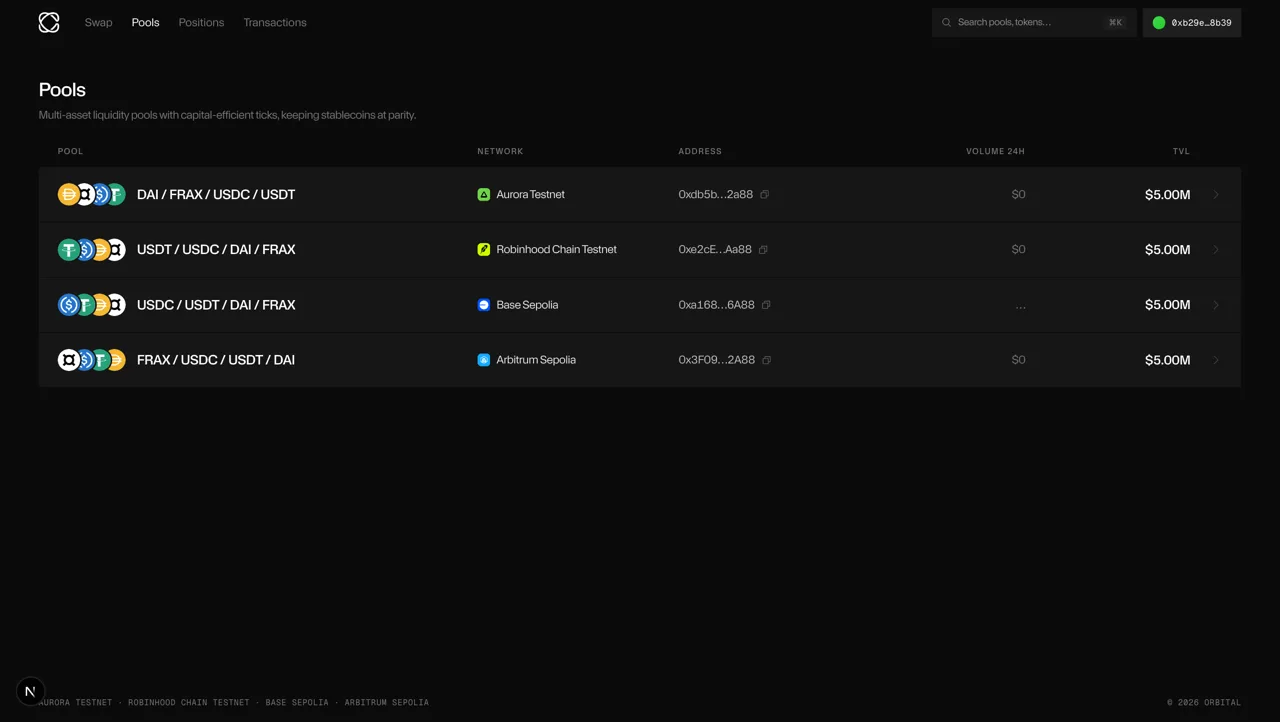
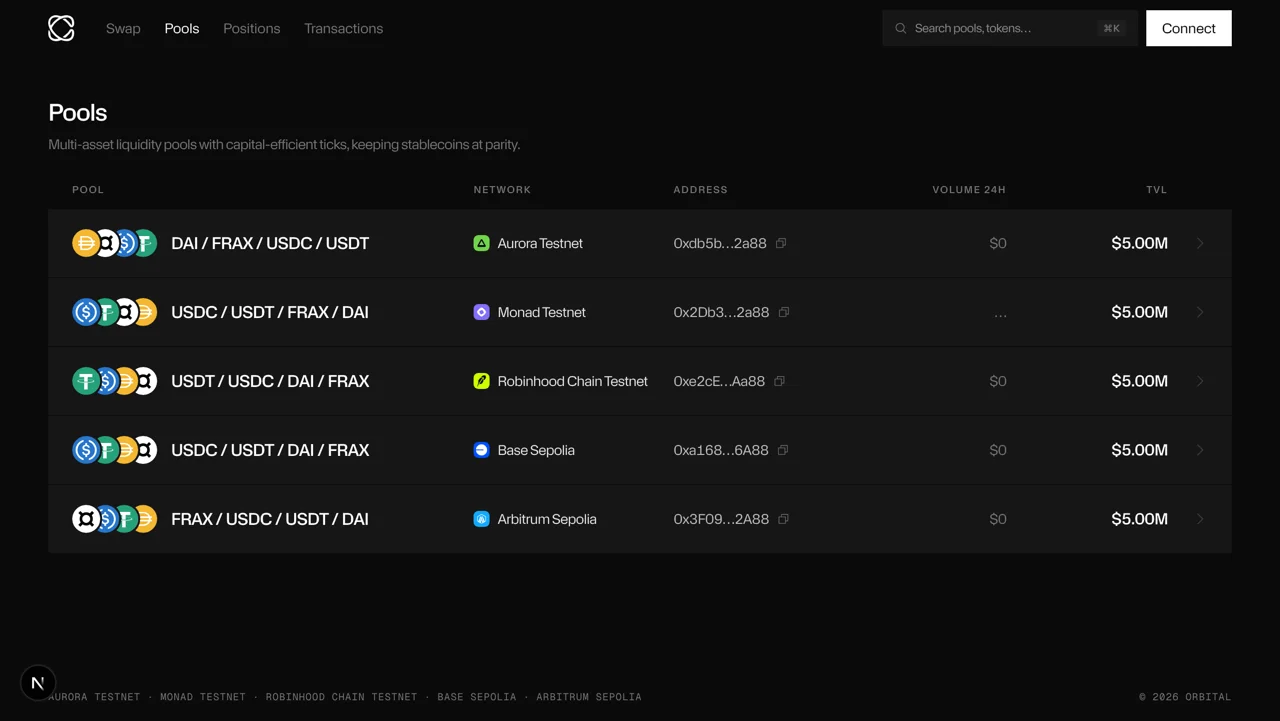
Fix up the frontend chain registry and home page
Wire an already-deployed pool into the frontend, alongside the existing
ones.

Fix a collision it exposed. Token display metadata was keyed by address
alone, built by looping every deployment, so a later one silently
overwrote an earlier one wherever two shared an address — which happens,
because the mocks were deployed from one account whose nonces ran in
step, so CREATE handed out the same addresses more than once. A pool
then rendered under the wrong symbols, with one missing and another
doubled. The key is now deployment and address, behind a helper so the
first cannot be forgotten at a call site.

Generate the home page and footer lists from the registry rather than
typing them out, since the footer had already drifted to name something
not deployed and to omit the primary one.

diff --git a/frontend/lib/crosschain.ts b/frontend/lib/crosschain.ts
@@ -52,6 +52,7 @@ export const BASE_SEPOLIA_ID = 84532;
 
 // Aurora: the EVM on NEAR. Not in viem's chain list.
 export const AURORA_TESTNET_ID = 1313161555;
+export const MONAD_TESTNET_ID = 10143;
 
 export const DEPLOYMENTS: Record<number, CrossChainDeployment> = {
   // Generated from orbitalHook/deployments.json - keep the two in step.
@@ -128,6 +129,25 @@ export const DEPLOYMENTS: Record<number, CrossChainDeployment> = {
       USDT:  { symbol: "USDT", address: "0xe574c92e61579b3b77f5491a0c02c57157c915c1", decimals: 6 , index: 3 },
     },
   },
+  [MONAD_TESTNET_ID]: {
+    chainId: MONAD_TESTNET_ID,
+    name: "Monad Testnet",
+    short: "Monad",
+    explorer: "https://testnet.monadscan.com",
+    orbitalHook: "0x2Db3289884D575A7b49374F28d738DBF2dc42a88",
+    poolManager: "0x553Fa9C4040AAb9366C4F9ffB6e31B1Ff415CAF7",
+    swapRouter: "0x43aDE6c9918DeBDE6783E6ed9B9A4745E507383a",
+    quoter: "0x2f7A2DC7d74645A31CABb5466219CCAB70913377",
+    deployBlock: 70679352n,
+    // No settler deployed here, so Monad quotes and trades its own book only.
+    crossChainNote: "Monad testnet has no Orbital settler, so it is same-chain only",
+    assets: {
+      USDC:  { symbol: "USDC", address: "0x0a29619e8580d90b14200a734faad4677e9d1645", decimals: 6 , index: 0 },
+      USDT:  { symbol: "USDT", address: "0x45dc287a307eccf7426cb2377ee2865457592fae", decimals: 6 , index: 1 },
+      FRAX:  { symbol: "FRAX", address: "0x871290c7a788395f1ce5f7cdd69917696e0c352a", decimals: 18, index: 2 },
+      DAI:   { symbol: "DAI", address: "0xc79a946a0a8661cde0cc02a34d387c5b4ccab0e4", decimals: 18, index: 3 },
+    },
+  },
 };
 
 /// The chain the single-chain pages (pools, positions, transactions) default to,
@@ -152,6 +172,7 @@ export const DEFAULT_SWAP_CHAIN_ID = AURORA_TESTNET_ID;
 /// Display order in the token dropdown, primary chain first.
 export const CHAIN_IDS = [
   AURORA_TESTNET_ID,
+  MONAD_TESTNET_ID,
   ROBINHOOD_TESTNET_ID,
   BASE_SEPOLIA_ID,
   ARBITRUM_SEPOLIA_ID,
@@ -382,9 +403,16 @@ export const explorerTx = (chainId: number, hash: string) =>
 export const explorerAddress = (chainId: number, addr: string) =>
   `${DEPLOYMENTS[chainId]?.explorer ?? ""}/address/${addr}`;
 
-/// Display metadata keyed by LOWERCASED token address, across every chain.
+/// Display metadata keyed by `chainId:LOWERCASED address`, across every chain.
 /// Built from the registry so a redeploy cannot leave stale symbols or the
 /// wrong decimals behind.
+///
+/// The chain id is part of the key because an address alone is NOT unique:
+/// the mock tokens were deployed by one account whose nonces ran in step on
+/// several chains, so CREATE handed out identical addresses. Monad's USDC and
+/// Robinhood's USDT are both 0x0a29619e…, and three such pairs exist. Keyed by
+/// address alone, whichever chain came last in `CHAIN_IDS` silently won, and
+/// Monad's pool rendered as "USDT / DAI / FRAX / FRAX".
 export const TOKEN_DISPLAY: Record<string, { symbol: string; name: string; color: string; decimals: number; chainId: number }> = (() => {
   const NAMES: Record<string, string> = {
     USDC: "USD Coin",
@@ -403,7 +431,7 @@ export const TOKEN_DISPLAY: Record<string, { symbol: string; name: string; color
     const dep = DEPLOYMENTS[chainId];
     for (const sym of ROUTABLE_SYMBOLS) {
       const a = dep.assets[sym];
-      out[a.address.toLowerCase()] = {
+      out[`${chainId}:${a.address.toLowerCase()}`] = {
         symbol: sym,
         name: NAMES[sym] ?? sym,
         color: COLORS[sym] ?? "#888",
@@ -414,6 +442,28 @@ export const TOKEN_DISPLAY: Record<string, { symbol: string; name: string; color
   }
   return out;
 })();
+
+/// "a, b, c and d" — an English list, for prose rather than a table.
+export function listAnd(items: readonly string[]): string {
+  if (items.length < 2) return items.join("");
+  return `${items.slice(0, -1).join(", ")} and ${items[items.length - 1]}`;
+}
+
+/// Every deployed chain, named for prose with the network tier stripped, so a
+/// sentence does not carry "Testnet" or "Sepolia" five times over. Anywhere
+/// this is used states the testnet caveat once, on its own.
+export const DEPLOYED_CHAINS = listAnd(
+  CHAIN_IDS.map((id) => DEPLOYMENTS[id].name.replace(/ (Testnet|Sepolia)$/, "")),
+);
+
+/// The same list with each chain's full name, for places that must be exact.
+export const DEPLOYED_CHAINS_FULL = listAnd(CHAIN_IDS.map((id) => DEPLOYMENTS[id].name));
+
+/// A token's display metadata on a given chain. Always prefer this to indexing
+/// `TOKEN_DISPLAY` directly, so the chain id cannot be forgotten.
+export function tokenDisplay(chainId: number, address: string) {
+  return TOKEN_DISPLAY[`${chainId}:${address.toLowerCase()}`];
+}
 
 // ─── Pools ───────────────────────────────────────────────────────────────────
 // Every page that lists, reads or scans pools goes through `ALL_POOLS`, so a

diff --git a/frontend/lib/wagmi.ts b/frontend/lib/wagmi.ts
@@ -38,19 +38,38 @@ export const robinhoodTestnet = defineChain({
   testnet: true,
 });
 
+// Monad testnet. Not in viem's chain list.
+//
+// Monad charges the full gas LIMIT rather than gas used, and `eth_estimateGas`
+// is unreliable here, so anything that signs against this chain should send an
+// explicit limit rather than trust an estimate.
+export const monadTestnet = defineChain({
+  id: 10143,
+  name: "Monad Testnet",
+  nativeCurrency: { name: "MON", symbol: "MON", decimals: 18 },
+  rpcUrls: { default: { http: ["https://testnet-rpc.monad.xyz"] } },
+  blockExplorers: {
+    default: { name: "MonadScan", url: "https://testnet.monadscan.com" },
+  },
+  testnet: true,
+});
+
 // Explorer links are per chain: use `explorerTx` / `explorerAddress` from
 // `lib/crosschain`, which read each deployment's own explorer.
 
-// Robinhood Chain testnet is the primary deployment; Arbitrum Sepolia, Base
-// Sepolia and Ethereum Sepolia carry the same hook. All are same-chain only.
+// Aurora is the primary deployment (see `PRIMARY_CHAIN_ID`); Monad, Robinhood
+// Chain, Base Sepolia and Arbitrum Sepolia carry the same hook. Aurora,
+// Arbitrum and Base are peered for cross-chain intents; Monad and Robinhood
+// have no settler, so they are same-chain only.
 export { arbitrumSepolia, baseSepolia };
 
 export function createWagmiConfig(): Config {
   return createConfig({
-    chains: [auroraTestnet, robinhoodTestnet, baseSepolia, arbitrumSepolia],
+    chains: [auroraTestnet, monadTestnet, robinhoodTestnet, baseSepolia, arbitrumSepolia],
     connectors: [injected(), coinbaseWallet({ appName: "Orbital" })],
     transports: {
       [auroraTestnet.id]: http("https://testnet.aurora.dev"),
+      [monadTestnet.id]: http("https://testnet-rpc.monad.xyz"),
       [arbitrumSepolia.id]: http("https://sepolia-rollup.arbitrum.io/rpc"),
       [robinhoodTestnet.id]: http("https://rpc.testnet.chain.robinhood.com"),
       [baseSepolia.id]: http("https://base-sepolia-rpc.publicnode.com"),

diff --git a/frontend/app/app/positions/page.tsx b/frontend/app/app/positions/page.tsx
@@ -9,7 +9,7 @@ import { useHeldPayouts, usePositions, usePositionValue, useTickStatus } from "@
 import { fetchDepositQuote } from "@/lib/hooks/useDepositQuote";
 import { useTokenBalances, useTokenAllowances } from "@/lib/hooks/useTokenBalances";
 import { fmtUSD } from "@/lib/mock/data";
-import { HOOK_LP_ABI, ERC20_ABI, TOKEN_META, lpDeadline } from "@/lib/contracts";
+import { HOOK_LP_ABI, ERC20_ABI, tokenDisplay, lpDeadline } from "@/lib/contracts";
 import { bandLabel } from "@/lib/bands";
 import { explainPoolError } from "@/lib/poolErrors";
 import { DEPLOYMENTS } from "@/lib/crosschain";
@@ -673,7 +673,7 @@ function HeldPayouts({ account, onTxResult }: { account: Address; onTxResult: (r
         </p>
       </div>
       {held.map((h) => {
-        const meta = TOKEN_META[h.token.toLowerCase()];
+        const meta = tokenDisplay(h.chainId, h.token);
         const amount = Number(h.amount) / 10 ** (meta?.decimals ?? 18);
         const onChain = walletChainId === h.chainId;
         return (

diff --git a/frontend/components/app/shared/ChainBadge.tsx b/frontend/components/app/shared/ChainBadge.tsx
@@ -4,6 +4,7 @@ import {
   ROBINHOOD_TESTNET_ID,
   BASE_SEPOLIA_ID,
   AURORA_TESTNET_ID,
+  MONAD_TESTNET_ID,
 } from "@/lib/crosschain";
 
 /** Chain badge, drawn as ONE svg: rounded-square plate plus the network glyph,
@@ -56,6 +57,13 @@ const CHAIN_ART: Record<number, ChainArt> = {
     glyph: [
       // Aurora mark: a rounded triangle, renormalised into this 24x24 viewBox.
       "M12 3.6c.74 0 1.42.4 1.78 1.05l6.9 12.5c.35.63.34 1.4-.03 2.02-.37.62-1.04 1-1.76 1H5.11c-.72 0-1.39-.38-1.76-1a2.03 2.03 0 0 1-.03-2.02l6.9-12.5A2.03 2.03 0 0 1 12 3.6m0 3.3-5.2 9.42h10.4z",
+    ],
+  },
+  [MONAD_TESTNET_ID]: {
+    plate: "#836EF9",
+    glyph: [
+      // Monad mark, renormalised into this 24x24 viewBox.
+      "M12 2.4c-2.65 0-9.6 6.95-9.6 9.6s6.95 9.6 9.6 9.6 9.6-6.95 9.6-9.6S14.65 2.4 12 2.4m-1.3 14.73c-1.03-.28-3.83-5.13-3.55-6.16.28-1.03 5.13-3.83 6.16-3.55 1.03.28 3.83 5.13 3.55 6.16-.28 1.03-5.13 3.83-6.16 3.55",
     ],
   },
   [ROBINHOOD_TESTNET_ID]: {

diff --git a/frontend/lib/hooks/usePool.ts b/frontend/lib/hooks/usePool.ts
@@ -2,7 +2,7 @@
 
 import { useReadContracts } from "wagmi";
 import { type Address } from "viem";
-import { POOL_ABI, TOKEN_META } from "@/lib/contracts";
+import { POOL_ABI, tokenDisplay } from "@/lib/contracts";
 import { PRIMARY_CHAIN_ID } from "@/lib/crosschain";
 import { bandDepegPrice } from "@/lib/bands";
 import { type Pool } from "@/lib/mock/data";
@@ -69,7 +69,7 @@ export function usePool(
   const addressesResolved = tokenAddrs.length > 0 && tokenAddrs.every(a => a.length === 42);
 
   const tokens = tokenAddrs.map(addr => {
-    const meta = TOKEN_META[addr.toLowerCase()] ?? { symbol: addr.slice(0, 6), name: addr, color: "#888", decimals: 18 };
+    const meta = tokenDisplay(chainId, addr) ?? { symbol: addr.slice(0, 6), name: addr, color: "#888", decimals: 18 };
     return { address: addr, symbol: meta.symbol, name: meta.name, color: meta.color, balance: 0 };
   });
 

diff --git a/frontend/components/home/Masthead.tsx b/frontend/components/home/Masthead.tsx
@@ -1,4 +1,5 @@
 import { color, typography } from "@/constants";
+import { DEPLOYED_CHAINS } from "@/lib/crosschain";
 import { Emphasized } from "./Emphasized";
 import { SectionLabel } from "./SectionLabel";
 
@@ -102,7 +103,7 @@ export function Masthead() {
               { t: ", built as a ", v: "off" },
               { t: "Uniswap v4 hook", v: "on" },
               { t: " and live on ", v: "off" },
-              { t: "Aurora, Robinhood Chain, Base and Arbitrum", v: "on" },
+              { t: DEPLOYED_CHAINS, v: "on" },
               { t: ".", v: "green" },
             ]}
           />

diff --git a/frontend/components/layout/Footer.tsx b/frontend/components/layout/Footer.tsx
@@ -1,4 +1,5 @@
 import { color, typography } from "@/constants";
+import { DEPLOYED_CHAINS_FULL } from "@/lib/crosschain";
 
 const TEAM = [
   { name: "Ajay Odedra", role: "FOUNDER / ENGINEER", initial: "A" },
@@ -197,7 +198,7 @@ export function Footer() {
           >
             Research implementation of the Paradigm Orbital paper.
             <br />
-            Deployed on Ethereum Sepolia, Base Sepolia, Arbitrum Sepolia and Robinhood Chain testnet. Not production.
+            Deployed on {DEPLOYED_CHAINS_FULL}. Not production.
           </p>
           <p
             style={{

diff --git a/frontend/lib/contracts.ts b/frontend/lib/contracts.ts
@@ -67,6 +67,7 @@ export function deployBlockFor(chainId: number): bigint {
 // 18-decimal, which is wrong on every chain now.
 
 export const TOKEN_META = TOKEN_DISPLAY;
+export { tokenDisplay } from "@/lib/crosschain";
 
 // ─── PoolKey ──────────────────────────────────────────────────────────────────
 

diff --git a/README.md b/README.md
@@ -4,7 +4,7 @@
 
 Deployed on **Aurora**, NEAR's EVM, and priced from any of 39 chains through **NEAR Intents**.
 
-[**Live app**](https://orbital-hook.vercel.app/) · Aurora (NEAR) · Robinhood Chain · Base Sepolia · Arbitrum Sepolia · 205 tests
+[**Live app**](https://orbital-hook.vercel.app/) · Aurora (NEAR) · Monad · Robinhood Chain · Base Sepolia · Arbitrum Sepolia · 205 tests
 
 <img src="frontend/public/intro.webp" alt="Orbital Hook — A Spherical AMM Engine" />
 
@@ -384,11 +384,12 @@ Aurora is the EVM that runs on NEAR, which is why it is the primary deployment.
 | Chain | Pool | Hook | Settler |
 |---|---|---|---|
 | **Aurora testnet** `1313161555` | USDC · USDT · DAI · FRAX | [`0xdb5b8f2078e28a50e1e9f068b9aa00c560702a88`](https://explorer.testnet.aurora.dev/address/0xdb5b8f2078e28a50e1e9f068b9aa00c560702a88) | `0x58D4…71b7` |
+| Monad testnet `10143` | USDC · USDT · FRAX · DAI | [`0x2Db3289884D575A7b49374F28d738DBF2dc42a88`](https://testnet.monadscan.com/address/0x2Db3289884D575A7b49374F28d738DBF2dc42a88) | — no settler |
 | Robinhood Chain testnet `46630` | USDC · USDT · DAI · FRAX | [`0xe2cE434ABB1F2a939fA017f69CD5f7c19c36Aa88`](https://explorer.testnet.chain.robinhood.com/address/0xe2cE434ABB1F2a939fA017f69CD5f7c19c36Aa88) | — no Hyperlane |
 | Base Sepolia `84532` | USDC · USDT · DAI · FRAX | [`0xa1685261278e44C12921a0f213daDfBF9Beb6A88`](https://sepolia.basescan.org/address/0xa1685261278e44C12921a0f213daDfBF9Beb6A88) | `0x2D27…EF8E` |
 | Arbitrum Sepolia `421614` | USDC · USDT · DAI · FRAX | [`0x3F09f9eCf71Cf78f346Eb2683D4a295D00e82A88`](https://sepolia.arbiscan.io/address/0x3F09f9eCf71Cf78f346Eb2683D4a295D00e82A88) | `0xd980…7627` |
 
-Each pool uses a realistic decimal mix (USDC/USDT 6dp, DAI/FRAX 18dp) and is seeded with $5M of real capital on an eight-tier ladder: seven concentrated bands plus a small full-range backstop. The ladder's shape is not invented — it mirrors where LPs in the live Uniswap v3 USDC/USDT0 0.01% pool on Arbitrum actually place their capital, read tick by tick on-chain, so about two thirds of it sits within 5 bps of $1. Random retail swap flow runs on top, interleaved across the four chains, with each trade capped at $5,000.
+Each pool uses a realistic decimal mix (USDC/USDT 6dp, DAI/FRAX 18dp) and is seeded with $5M of real capital on an eight-tier ladder: seven concentrated bands plus a small full-range backstop. The ladder's shape is not invented — it mirrors where LPs in the live Uniswap v3 USDC/USDT0 0.01% pool on Arbitrum actually place their capital, read tick by tick on-chain, so about two thirds of it sits within 5 bps of $1. Random retail swap flow runs on top, interleaved across the chains, with each trade capped at $5,000.
 
 Quoted on the live $5M pool, all-in including the 1 bp fee:
 

diff --git a/orbitalHook/README.md b/orbitalHook/README.md
@@ -370,6 +370,23 @@ broadcast needs `--legacy`.
 | USDC (mock, 6dp) | `0x602e7b42515d3e93a04e176c09a24eaf9f617c88` |
 | USDT (mock, 6dp) | `0xe574c92e61579b3b77f5491a0c02c57157c915c1` |
 
+### Monad testnet `10143`
+
+Uniswap v4 is not canonical here, so the whole stack is ours: PoolManager, router, quoter and Permit2. Monad charges the full gas **limit** rather than gas used, and `eth_estimateGas` is unreliable, so scripts here pass an explicit `--gas-limit`.
+
+| Contract | Address |
+|---|---|
+| OrbitalHook | [`0x2Db3289884D575A7b49374F28d738DBF2dc42a88`](https://testnet.monadscan.com/address/0x2Db3289884D575A7b49374F28d738DBF2dc42a88) |
+| PoolManager (v4) | `0x553Fa9C4040AAb9366C4F9ffB6e31B1Ff415CAF7` |
+| V4Quoter | `0x2f7A2DC7d74645A31CABb5466219CCAB70913377` |
+| V4Router | `0x43aDE6c9918DeBDE6783E6ed9B9A4745E507383a` |
+| USDC (mock, 6dp) | `0x0a29619e8580d90b14200a734faad4677e9d1645` |
+| USDT (mock, 6dp) | `0x45dc287a307eccf7426cb2377ee2865457592fae` |
+| FRAX (mock, 18dp) | `0x871290c7a788395f1ce5f7cdd69917696e0c352a` |
+| DAI (mock, 18dp) | `0xc79a946a0a8661cde0cc02a34d387c5b4ccab0e4` |
+
+> Three of those token addresses also appear under Robinhood Chain, for a different symbol. One account deployed the mocks on both chains with its nonces in step, so CREATE handed out the same addresses. They are unrelated contracts on unrelated chains — resolve a token by `(chain, address)`, never by address alone.
+
 ### Robinhood Chain testnet `46630`
 
 Uniswap v4 and the V4Router are already deployed here, so the hook plugs into them.

diff --git a/AGENTS.md b/AGENTS.md
@@ -106,9 +106,9 @@ and the README says so too.
   legs separately for this reason.
 - **The Orbital side does have executed transactions.** Twelve swaps have
   settled in the Aurora pool; four are linked from the README.
-- **The pools are testnet.** Aurora testnet (`1313161555`) is primary;
-  Arbitrum Sepolia, Base Sepolia and Robinhood Chain testnet carry the same
-  hook.
+- **The pools are testnet.** Aurora testnet (`1313161555`) is primary; Monad
+  testnet, Arbitrum Sepolia, Base Sepolia and Robinhood Chain testnet carry the
+  same hook. Each holds $5M and quotes every pair within ~1bp.
 - **An admin can pause.** The hook and the settler are `Ownable2Step, Pausable`.
   Pausing stops swaps and deposits — but `removeLiquidity` and `collect` are
   deliberately *not* pausable, so no one can trap an LP's funds.
